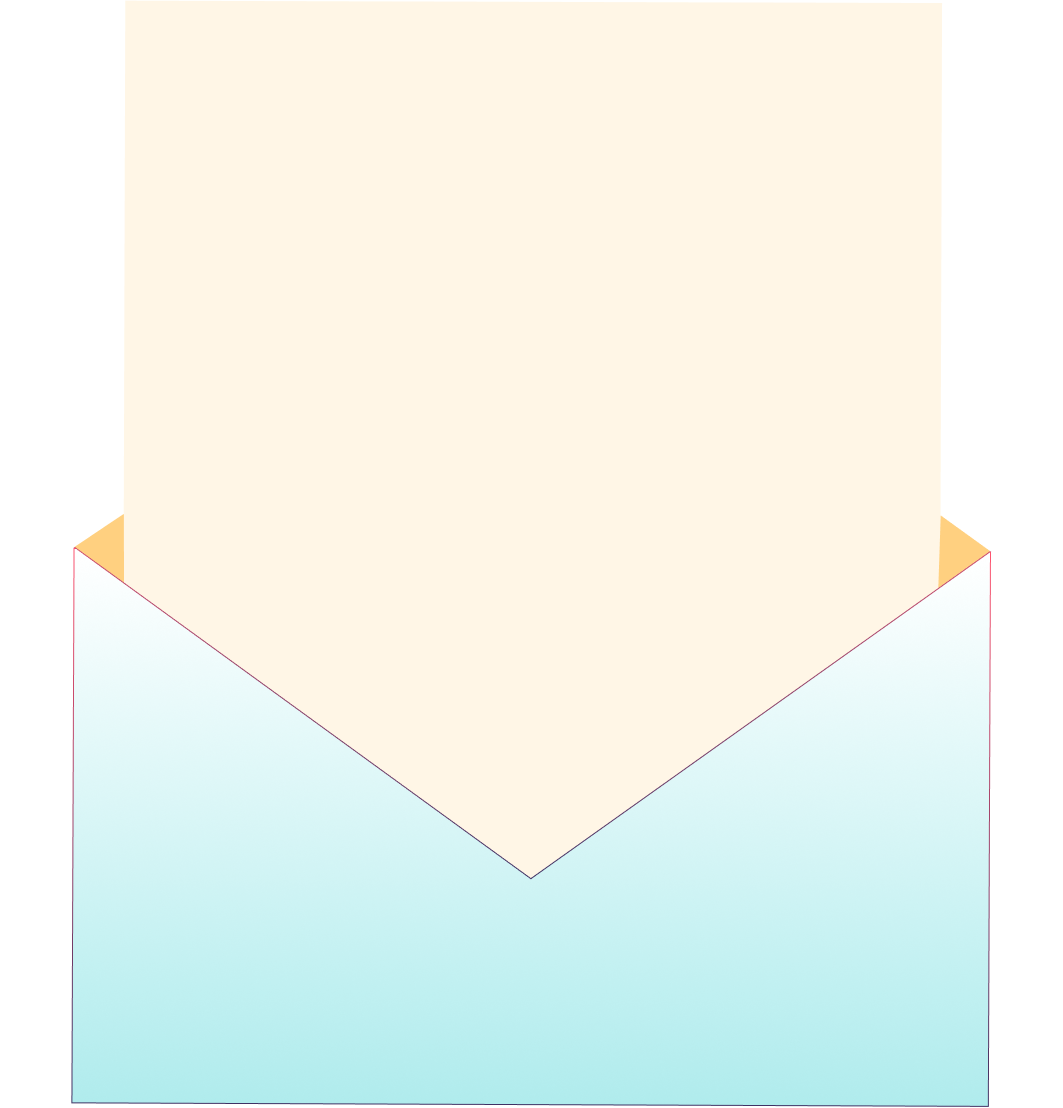
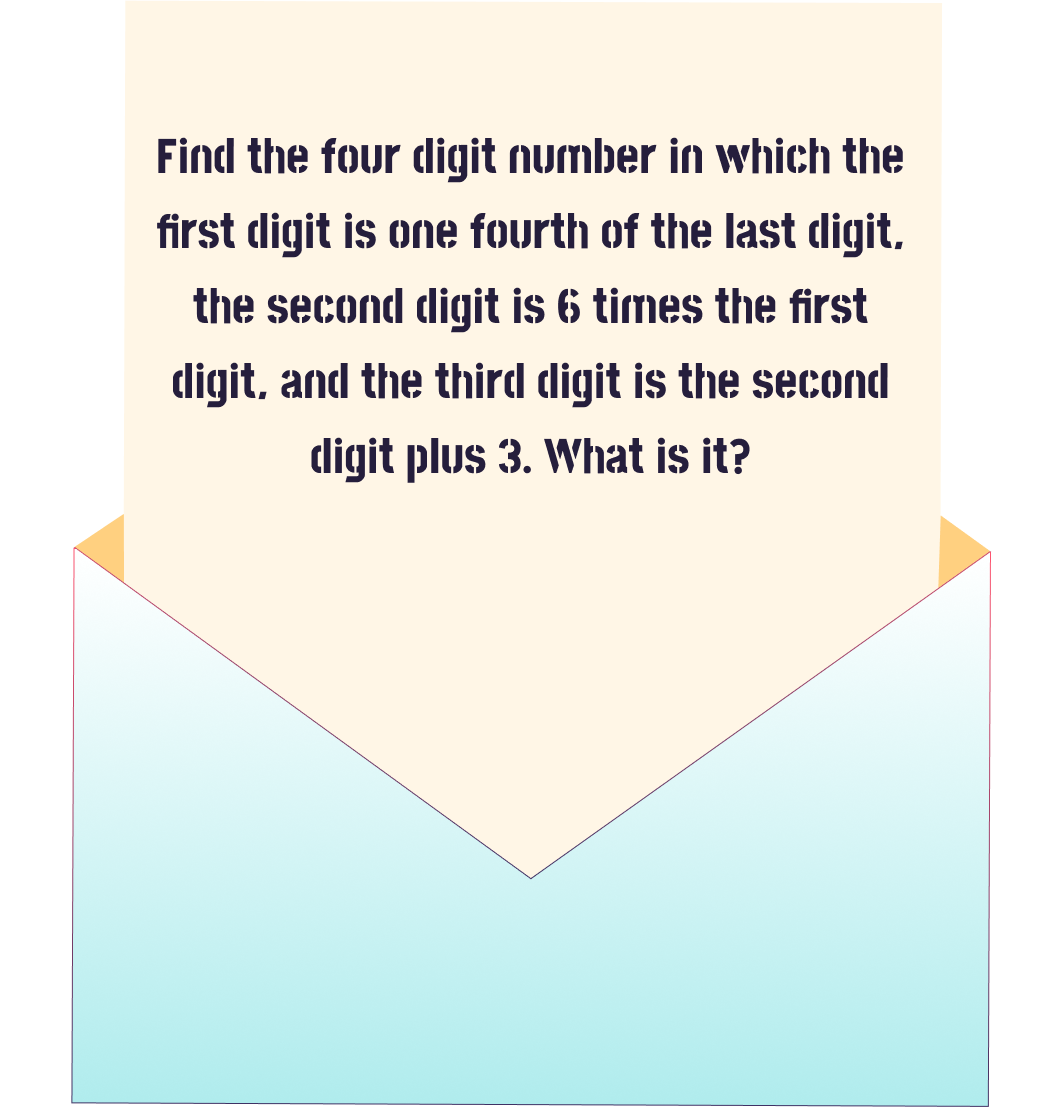
Css  for code inputs and safe left

Changed region(s): [[0.1242, 0.1227, 0.8692, 0.3682], [0.2794, 0.3989, 0.714, 0.4603]]

diff --git a/assets/css/phoenix.css b/assets/css/phoenix.css
@@ -818,9 +818,9 @@ header nav a {
 }
 
 .furniture.key {
-  top: 22%;
-  right: 25%;
-  width: 3%;
+  top: 68%;
+  right: 62%;
+  width: 6%;
   rotate: 50deg;
 }
 
@@ -941,6 +941,16 @@ header nav a {
   margin-left: 20%;
 }
 
+.numberCode {
+  margin: 0 0.5rem;
+  padding: 0.5rem;
+  border: 1px solid #333;
+  width: 20%;
+  height: 20%;
+  text-align: center;
+  font-size: 3rem;
+}
+
 .window.closet {
   background-image: linear-gradient(#0188a5, #3e3264);
   background-repeat: no-repeat;
@@ -962,7 +972,7 @@ header nav a {
 
 .safeOpen {
   position: absolute;
-  width: 20%;
+  width: 30%;
   bottom: 18%;
   margin-left: 30%;
 }
